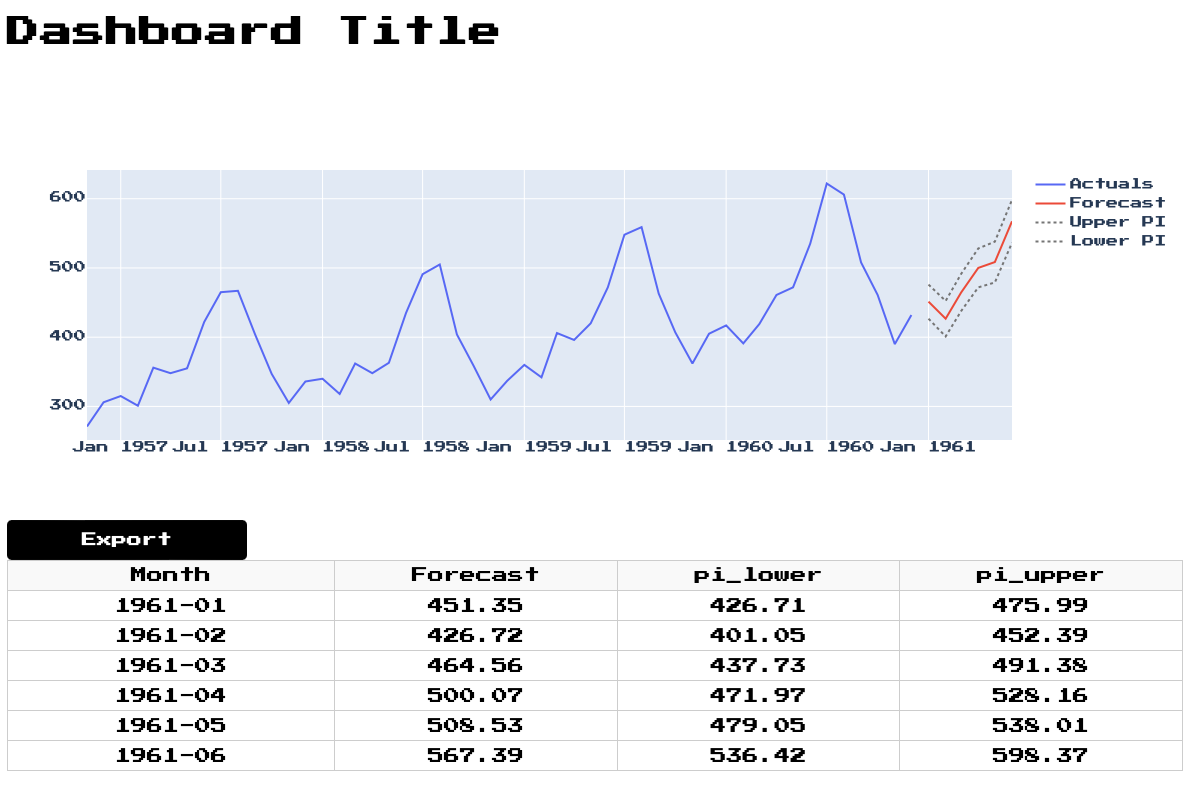
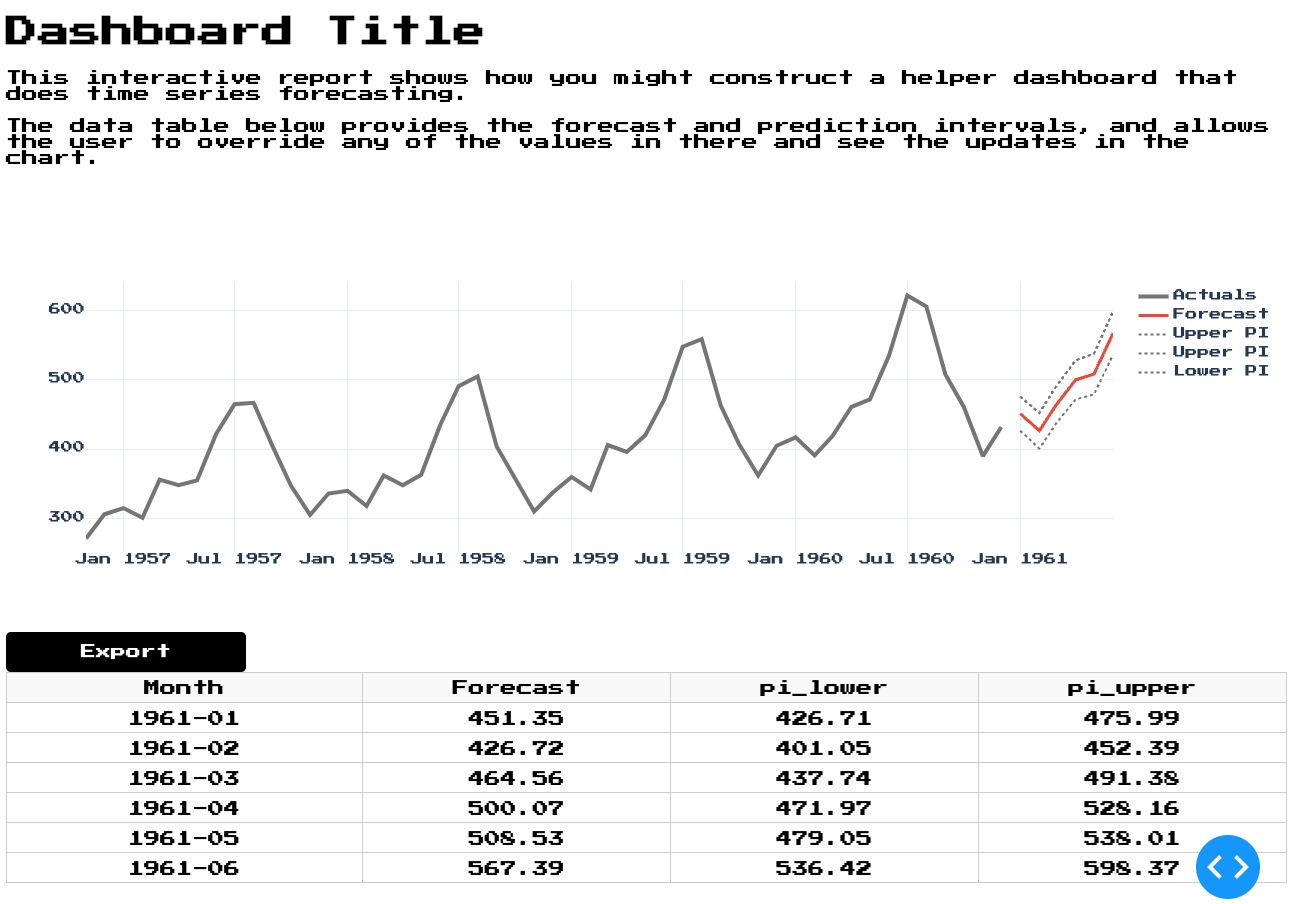
added markdown notes to dashboard and updated screenshot

diff --git a/dashboard.py b/dashboard.py
@@ -1,11 +1,12 @@
 from dash import Dash, dash_table, dcc, html
 from dash.dependencies import Input, Output
+
+import numpy as np
 import pandas as pd
 import plotly.express as px
 import plotly.graph_objects as go
 
 from statsmodels.tsa.exponential_smoothing.ets import ETSModel
-# from statsmodels.tsa.forecasting.theta import ThetaModel
 
 df = pd.read_csv('https://raw.githubusercontent.com/banditkings/datasets/main/TimeSeries/AirPassengers.csv')
 
@@ -15,9 +16,6 @@ external_stylesheets = [
 
 app = Dash(__name__, external_stylesheets=external_stylesheets)
 app.css.config.serve_locally = True
-
-models = ["NaiveForeaster", "AutoETS", "StatsForecastAutoARIMA", 
-          "ThetaForecaster", "TBATS"]
 
 def forecast(df):
     model = ETSModel(df["#Passengers"],
@@ -39,11 +37,16 @@ fcst = forecast(df)
 app.layout = html.Div([
     # Title
     html.H1(children="Dashboard Title", id="db-name"),
+    dcc.Markdown("""
+        This interactive report shows how you might construct a helper dashboard that does time series forecasting. 
+
+        The data table below provides the forecast and prediction intervals, and allows the user to override the forecast and export the forecast to CSV.
+    """),
     # Line Chart with Historicals and Forecast
-    dcc.Graph(id='table-editing-simple-output'),
+    dcc.Graph(id='editable-table-output'),
     # Editable DataTable where user can override the forecast
     dash_table.DataTable(
-        id='table-editing-simple',
+        id='editable-table',
         columns=(
             [{"name": i, "id": i} for i in fcst.columns]
         ),
@@ -51,7 +54,7 @@ app.layout = html.Div([
         editable=True,
         fixed_rows={'headers': True},  # Freeze Header
         page_size=100,
-        export_format='csv',
+        export_format='csv', # Add Export Button
         style_cell={'textAlign': 'center', 'font_family':"'Press Start 2P'"},
         style_table={'height': '300px', 'overflowY': 'auto'}, # Vertical Scrollbar
     ),
@@ -59,22 +62,25 @@ app.layout = html.Div([
 
 # Create a callback to update the figure based on what's in the datatable
 @app.callback(
-    Output('table-editing-simple-output', 'figure'),
-    Input('table-editing-simple', 'data'),
-    Input('table-editing-simple', 'columns'))
+    Output('editable-table-output', 'figure'),
+    Input('editable-table', 'data'),
+    Input('editable-table', 'columns'))
 def display_output(rows, columns):
     """Update the figure based on the datatable contents"""
     fcst_df = pd.DataFrame(rows, columns=[c['name'] for c in columns])
     fig = go.Figure()
-    fig.add_trace(go.Scatter(x=df.tail(50).Month, y=df.tail(50)['#Passengers'], name="Actuals"))
-    fig.add_trace(go.Scatter(x=fcst_df.Month, y=fcst_df.Forecast, name='Forecast', mode='lines'))
+    x = fcst_df.Month
+    fig.add_trace(go.Scatter(x=df.tail(50).Month, y=df.tail(50)['#Passengers'], name="Actuals", 
+                             line_width=4, line_color="gray"))
+    fig.add_trace(go.Scatter(x=fcst_df.Month, y=fcst_df.Forecast, name='Forecast', 
+                             mode='lines', line_width=3))
     fig.add_trace(go.Scatter(x=fcst_df.Month, y=fcst_df['pi_upper'], 
                              name='Upper PI', mode='lines',
                              line={'color':'grey', 'dash':'dot'}))
     fig.add_trace(go.Scatter(x=fcst_df.Month, y=fcst_df['pi_lower'], 
                              name='Lower PI', mode='lines',
                              line={'color':'grey', 'dash':'dot'}))
-    fig.update_layout(font_family="'Press Start 2P', Arial")
+    fig.update_layout(title="AutoETS (A, A, A) Forecast", font_family="'Press Start 2P', Arial", template="plotly_white")
     return fig
 
 if __name__ == '__main__':

diff --git a/README.md b/README.md
@@ -9,6 +9,14 @@ A simple 1-page dashboard example using Dash & Python to create a user forecasti
 * [x] Ability to download forecast as CSV
 * [ ] Add styling and modularize
 
+## How to install
+
+Navigate to the directory and use pip install from the `requirements.txt` file.
+
+```bash
+pip install -r requirements.txt
+```
+
 ## How to run
 
 ```bash
